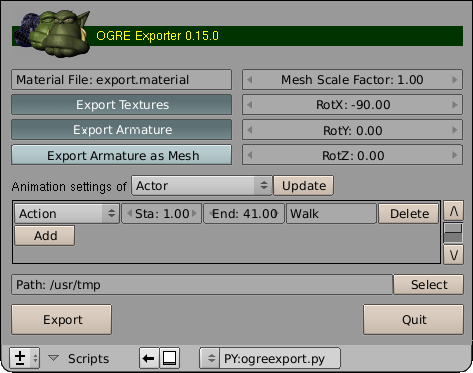
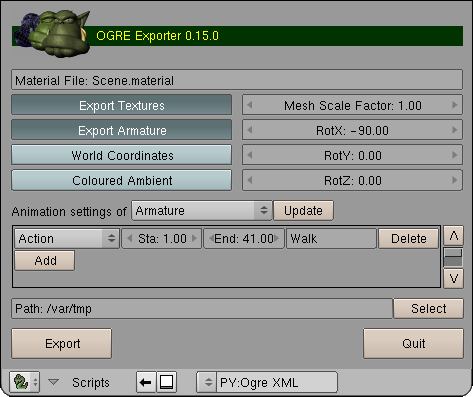
Documentation update.

diff --git a/Tools/BlenderExport/Docs/Attic/index.html b/Tools/BlenderExport/Docs/Attic/index.html
@@ -37,19 +37,22 @@ In the "Scripts Window" run "Scripts -> Update Menus".
 You will get a detailed log of the export process. Use the OgreXmlConverter to convert the generated XML files to binary .mesh and .skeleton files.
 <P>
 <DIV ID=exporter>
-<IMG SRC="images/exporter.png" WIDTH="473" HEIGHT="373" />
+<IMG SRC="images/exporter.png" WIDTH="473" HEIGHT="397" />
 <P>Screenshot of the exporter interface.</P>
 </DIV>
 <H3>Options</H3>
 <DL COMPACT>
+<DT>Material File</DT>
+<DD>The name of the material script file that will be generated.</DD>
 <DT>Export Textures</DT>
 <DD>Export uv texture coordinates and texture names.</DD>
 <DT>Export Armature</DT>
 <DD>Export armatures and armature animations.</DD>
-<DT>Export Armature as Mesh</DT>
-<DD>Generate an animated extra mesh in the form of the skeleton.</DD>
-<DT>Material File</DT>
-<DD>The name of the material script file that will be generated.</DD>
+<DT>World Coordinates</DT>
+<DD>Export objects in world coordinates instead of object coordinates.</DD>
+<DT>Coloured Ambient</DT>
+<DD>Use scaled diffuse colour as ambient colour instead of scaled white.
+This does only work for materials for which TexFace is not set.</DD>
 <DT>Mesh Scale Factor</DT>
 <DD>All meshs and bones are scaled on export by this factor.</DD>
 <DT>RotX</DT>
@@ -86,6 +89,9 @@ You will get a detailed log of the export process. Use the OgreXmlConverter to c
 <P>
 The script loads and saves its options to a text buffer "ogreexport.cfg" inside the current .blend file. You can disable this behaviour by changing the script variable KEEP_SETTINGS to 0.
 </P>
+<P>
+If the OGRE_XML_CONVERTER script variable is set to the OgreXMLConverter executable, the converter is called on the exported XML files.
+</P>
 </P>
 <H2>Specifics</H2>
 <H3>Mesh</H3>
@@ -103,7 +109,7 @@ In contrast to Ogre, Blender treats material, uv texture and blend mode separate
 <TH>Ogre</TH>
 </TR>
 <TR>
-<TD>Amb*AmbR Amb*AmbG Amb*AmbB</TD>
+<TD>Amb or Amb*Col</TD>
 <TD>ambient R G B</TD>
 </TR>
 <TR>
@@ -148,10 +154,6 @@ In contrast to Ogre, Blender treats material, uv texture and blend mode separate
 <TD>depth_func always_fail</TD>
 </TR>
 </TABLE>
-<P>
-<IMG SRC="images/world.png" WIDTH="288" HEIGHT="203" />
-</P>
-Blender's world settings that affect the exported Ogre material are marked green.
 <P>
 <IMG SRC="images/material.png" WIDTH="288" HEIGHT="203" />
 </P>
@@ -203,7 +205,7 @@ Armature animations are exported based upon keyframe ranges and action names. Yo
 <P>
 The script does not evaluate action constraints. To export an action with constraints you have to convert the constraint effects into ipo keys ("Action Editor -> Bake") and choose the baked action in the animation settings.
 </P>
-Ogre does not support nonuniform keyframe scaling. Ogre does not inherit parent bone scaling by default.
+Ogre does not inherit parent bone scaling by default.
 <P>
 </P>
 The animation speed in the export in terms of frames per second is taken from the corresponding scene render button.

diff --git a/Tools/BlenderExport/Docs/index.html b/Tools/BlenderExport/Docs/index.html
@@ -37,19 +37,22 @@ In the "Scripts Window" run "Scripts -> Update Menus".
 You will get a detailed log of the export process. Use the OgreXmlConverter to convert the generated XML files to binary .mesh and .skeleton files.
 <P>
 <DIV ID=exporter>
-<IMG SRC="images/exporter.png" WIDTH="473" HEIGHT="373" />
+<IMG SRC="images/exporter.png" WIDTH="473" HEIGHT="397" />
 <P>Screenshot of the exporter interface.</P>
 </DIV>
 <H3>Options</H3>
 <DL COMPACT>
+<DT>Material File</DT>
+<DD>The name of the material script file that will be generated.</DD>
 <DT>Export Textures</DT>
 <DD>Export uv texture coordinates and texture names.</DD>
 <DT>Export Armature</DT>
 <DD>Export armatures and armature animations.</DD>
-<DT>Export Armature as Mesh</DT>
-<DD>Generate an animated extra mesh in the form of the skeleton.</DD>
-<DT>Material File</DT>
-<DD>The name of the material script file that will be generated.</DD>
+<DT>World Coordinates</DT>
+<DD>Export objects in world coordinates instead of object coordinates.</DD>
+<DT>Coloured Ambient</DT>
+<DD>Use scaled diffuse colour as ambient colour instead of scaled white.
+This does only work for materials for which TexFace is not set.</DD>
 <DT>Mesh Scale Factor</DT>
 <DD>All meshs and bones are scaled on export by this factor.</DD>
 <DT>RotX</DT>
@@ -86,6 +89,9 @@ You will get a detailed log of the export process. Use the OgreXmlConverter to c
 <P>
 The script loads and saves its options to a text buffer "ogreexport.cfg" inside the current .blend file. You can disable this behaviour by changing the script variable KEEP_SETTINGS to 0.
 </P>
+<P>
+If the OGRE_XML_CONVERTER script variable is set to the OgreXMLConverter executable, the converter is called on the exported XML files.
+</P>
 </P>
 <H2>Specifics</H2>
 <H3>Mesh</H3>
@@ -103,7 +109,7 @@ In contrast to Ogre, Blender treats material, uv texture and blend mode separate
 <TH>Ogre</TH>
 </TR>
 <TR>
-<TD>Amb*AmbR Amb*AmbG Amb*AmbB</TD>
+<TD>Amb or Amb*Col</TD>
 <TD>ambient R G B</TD>
 </TR>
 <TR>
@@ -148,10 +154,6 @@ In contrast to Ogre, Blender treats material, uv texture and blend mode separate
 <TD>depth_func always_fail</TD>
 </TR>
 </TABLE>
-<P>
-<IMG SRC="images/world.png" WIDTH="288" HEIGHT="203" />
-</P>
-Blender's world settings that affect the exported Ogre material are marked green.
 <P>
 <IMG SRC="images/material.png" WIDTH="288" HEIGHT="203" />
 </P>
@@ -203,7 +205,7 @@ Armature animations are exported based upon keyframe ranges and action names. Yo
 <P>
 The script does not evaluate action constraints. To export an action with constraints you have to convert the constraint effects into ipo keys ("Action Editor -> Bake") and choose the baked action in the animation settings.
 </P>
-Ogre does not support nonuniform keyframe scaling. Ogre does not inherit parent bone scaling by default.
+Ogre does not inherit parent bone scaling by default.
 <P>
 </P>
 The animation speed in the export in terms of frames per second is taken from the corresponding scene render button.
